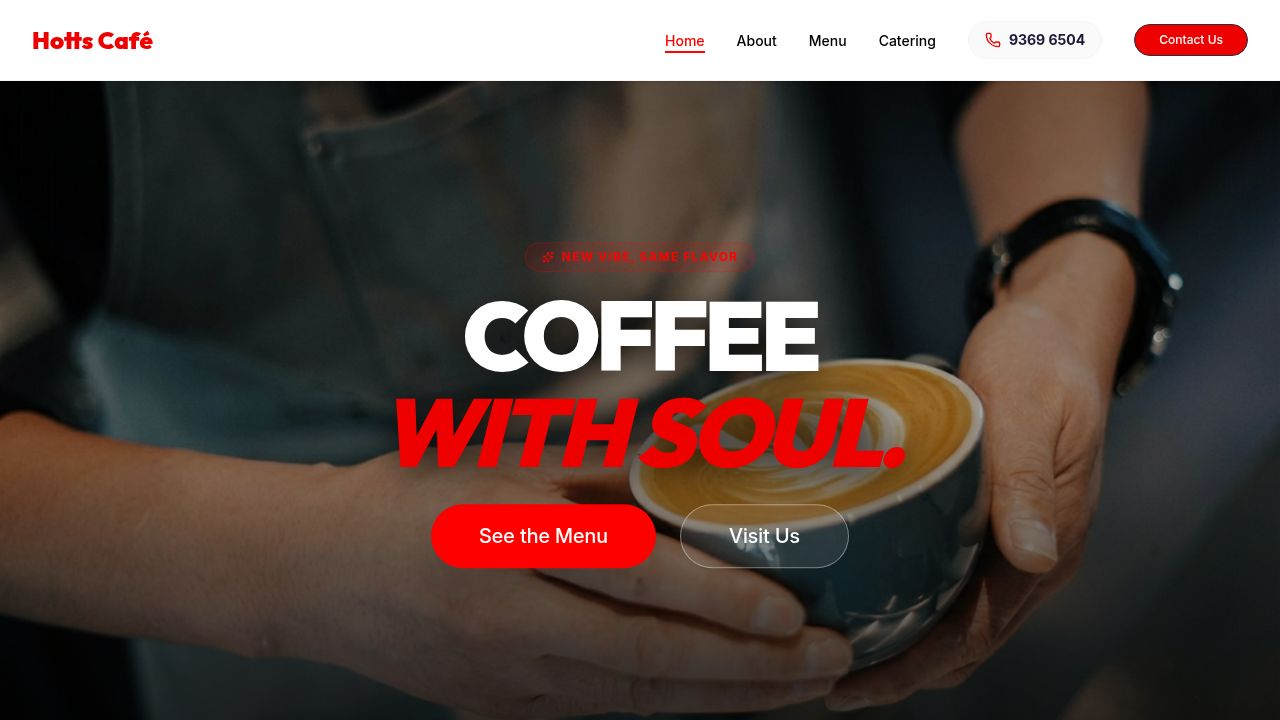
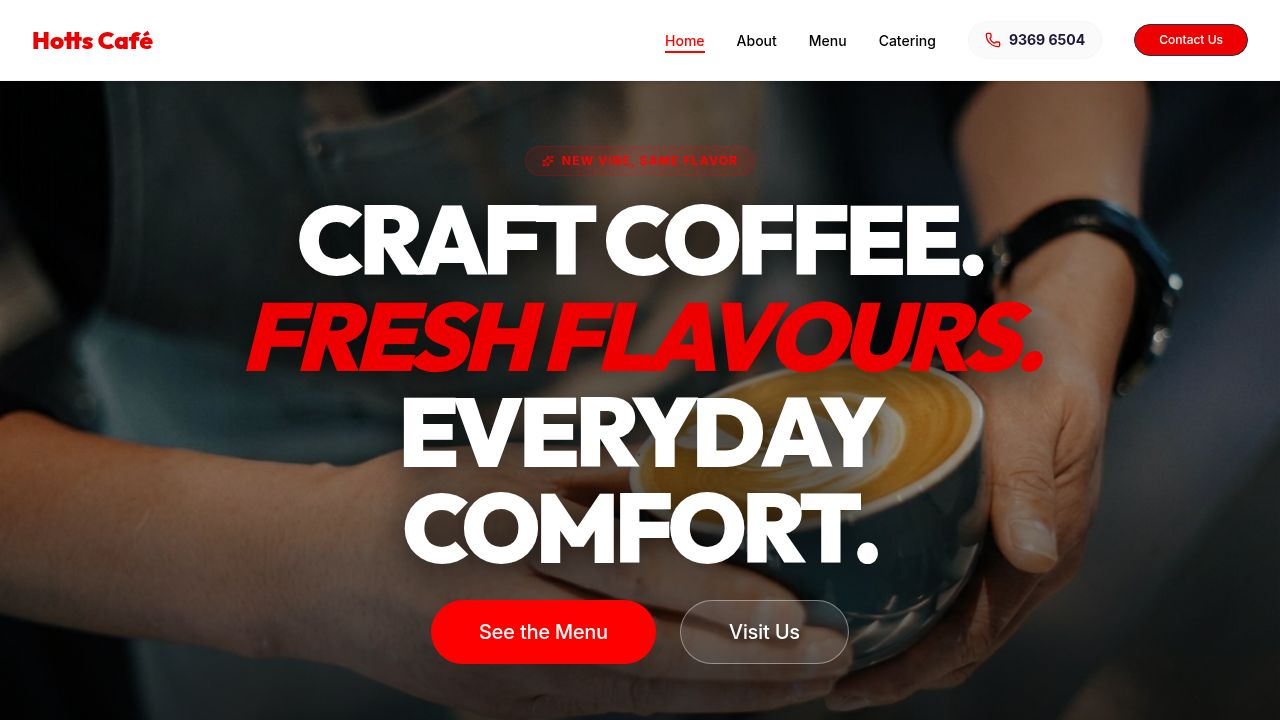
Update hero headline to showcase new branding message
Modify the hero headline text and styling in `client/src/pages/home.tsx` to reflect the new branding "Craft Coffee. Fresh Flavours. Everyday Comfort.".

Replit-Commit-Author: Agent
Replit-Commit-Session-Id: e3ff6334-9d10-4104-a1b8-76b7356245eb
Replit-Commit-Checkpoint-Type: full_checkpoint
Replit-Commit-Event-Id: 68be011f-d7f1-4845-bc6a-99333eea6e4e
Replit-Commit-Screenshot-Url: https://storage.googleapis.com/screenshot-production-us-central1/c4af5781-d439-4a2f-b30c-cc76b1be9f17/e3ff6334-9d10-4104-a1b8-76b7356245eb/EznhCwY
Replit-Helium-Checkpoint-Created: true

Changed region(s): [[0.1875, 0.275, 0.8125, 0.7944], [0.3125, 0.825, 0.6875, 0.9472], [0.4062, 0.1833, 0.5938, 0.2444]]

diff --git a/client/src/pages/home.tsx b/client/src/pages/home.tsx
@@ -53,8 +53,9 @@ export default function Home() {
               <Sparkles className="w-3 h-3 mr-2" /> NEW VIBE, SAME FLAVOR
             </BadgeLocal>
             <h1 className="font-heading text-5xl sm:text-6xl md:text-8xl font-black leading-none mb-6 text-white tracking-tighter uppercase drop-shadow-[0_4px_20px_rgba(0,0,0,0.9)]">
-              COFFEE <br />
-              <span className="italic text-[#ef0000]">with soul.</span>
+              CRAFT COFFEE. <br />
+              <span className="italic text-[#ef0000]">FRESH FLAVOURS.</span> <br />
+              EVERYDAY COMFORT.
             </h1>
             {/* <p className="text-base sm:text-lg md:text-2xl text-white mb-10 max-w-2xl mx-auto font-bold leading-relaxed drop-shadow-[0_2px_15px_rgba(0,0,0,0.9)] px-4">
               We're turning up the volume on your morning. Hotts Café is where bold flavors meet vibrant community.
